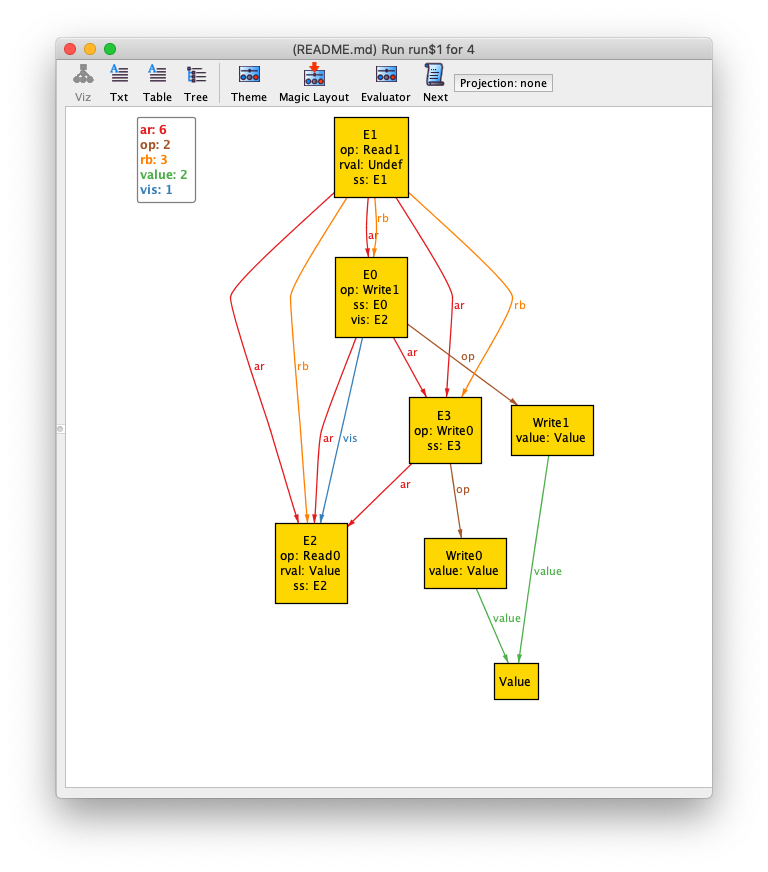
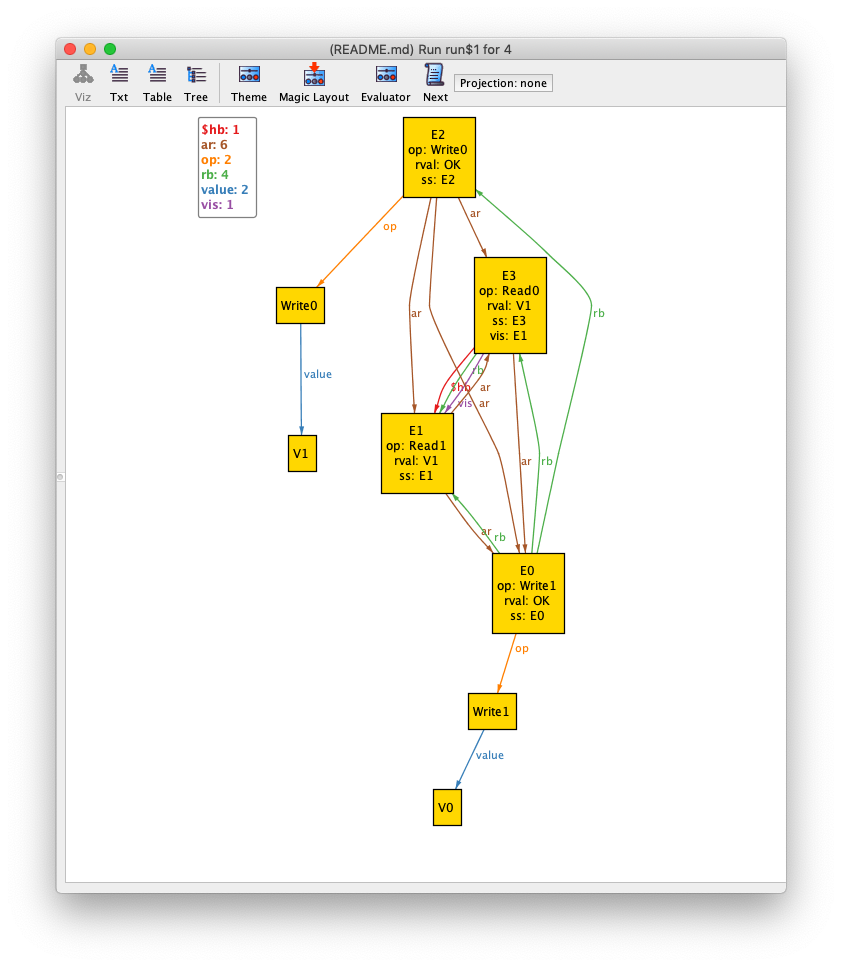
update

Changed region(s): [[0.0625, 0.031, 0.9375, 0.9289], [0.5, 0.805, 0.5625, 0.867], [0.4688, 0.5573, 0.5, 0.5883]]

diff --git a/README.md b/README.md
@@ -12,7 +12,7 @@ This sounds like a good fit for the [Alloy modeling
 language](http://alloytools.org/), which is also based on sets, relations, and
 first order logic.
 
-Note: PoEC is written as a book in PDF format. It is free to download.
+Note that this file is written in Alloy Markdow format, so you can load it directly into [Alloy 5.0](https://github.com/AlloyTools/org.alloytools.alloy/releases).
 
 # Using Alloy to model relations
 
@@ -73,7 +73,7 @@ consistent with Burckhardt's syntax, and because it will make things a little sh
 ```alloy
 sig E {
     op: Operation,
-    rval: Value + Undef + OK,
+    rval: Value + NeverReturns,
     rb: set E,
     ss: set E,
     vis: set E,
@@ -93,12 +93,25 @@ Next, we need to define *Operation, Value, Undef, OK*.
 sig Value {}
 ```
 
-*Undef* and *OK* are special values, we model those as singleton sets:
+We're going to define *V* as the values that can be written to the register.
 
 ```alloy
-one sig Undef {}
+sig V extends Value {}
+```
 
-one sig OK {}
+We'll also define *Undef* and *OK* are special values, we model those as singleton sets
+
+
+```alloy
+one sig Undef extends Value {}
+
+one sig OK extends Value {}
+```
+
+Finally, we need to model with Burckhardt refers to as ∇, a special value that represents "NeverReturns".
+
+```alloy
+one sig NeverReturns {}
 ```
 
 ## Operations
@@ -113,7 +126,7 @@ abstract sig Operation {}
 sig Read extends Operation {}
 
 sig Write extends Operation {
-	value: Value
+	value: V
 }
 ```
 
@@ -223,7 +236,7 @@ We can use Alloy to generate an instance of an abstract execution that meets the
 I ran it with these settings:
 
 ```alloy
-run {#Read>1 and #Write>1 and some vis} for 4
+// run {#Read>1 and #Write>1 and some vis} for 4
 ```
 
 Here's what it generated:
@@ -231,3 +244,75 @@ Here's what it generated:
 ![instance](instance.png)
 
 I played with Alloy's theme settings so that the *op*, *rval*, and *ss* fields are shown as attributes.
+
+# Ordering guarantees
+
+Chapter 5 of PoEC expresses ordering guarantees as predicates on abstract executions. Here's a few of them:
+
+```alloy
+assert ReadMyWrites {
+    so[] in vis
+}
+
+assert MonoticReads {
+    vis.so[] in vis
+}
+
+assert ConsistentPrefix {
+    ar.(vis-ss) in vis
+}
+
+assert NoCircularCausality {
+    let so = rb & ss | 
+    let hb = ^(so + vis) |
+     no (iden & E->E & ^hb)   
+}
+
+assert CausalVisibility {
+    hb[] in vis
+}
+
+assert CausalArbitration {
+    hb[] in ar
+}
+
+assert RealTime {
+    rb in ar
+}
+
+//
+// convenience functions
+//
+
+// session order
+fun so[]: E->E {
+    rb & ss
+}
+
+// happens before
+fun hb[]: E->E {
+    ^(so[] + vis)
+}
+```
+
+Unfortuantely, we can't check the *single order* guarantee with Alloy because that guarantee is
+expressed in higher-order logic, and Alloy only supports expressions in first-order logic.
+
+## Checking for violations
+
+We can use Alloy to check if these are violated:
+
+```alloy
+check NoCircularCausality
+```
+
+And, indeed, we get a counterexample:
+
+![circular causality](circular-causality.png).
+
+The problem is:
+* (E1,E0) is in *rb*, which means that E1 returned before E0
+* (E0,E1) is in *vis*, which means that E0 is visible to E1
+
+This violates are intuitive notions of how causality works. 
+
